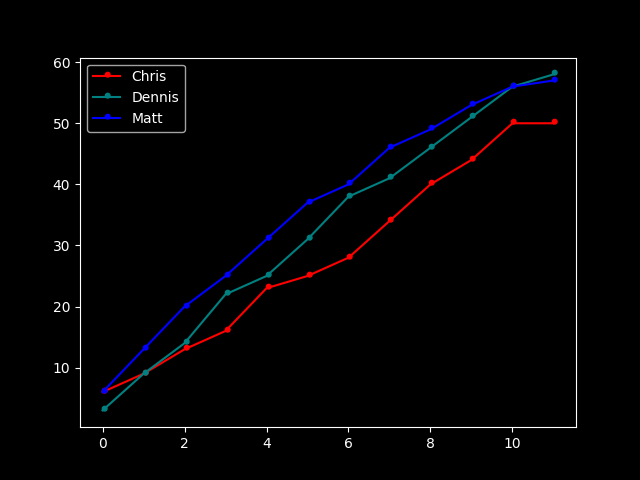
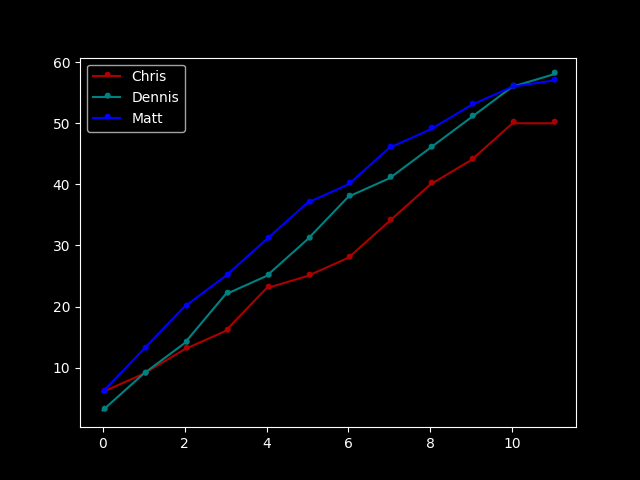
update2021-11-28

diff --git a/nfl-2021/index.html b/nfl-2021/index.html
@@ -400,7 +400,7 @@
   <html>
    <body>
     <p id="updates">
-     updated: 2021-11-28 ...version: s67_x
+     updated: 2021-11-28 ...version: g20_V
     </p>
    </body>
   </html>

diff --git a/nfl-2021/nfl2021.py b/nfl-2021/nfl2021.py
@@ -497,7 +497,7 @@ csFinal = csFinal[[
 ]]
 
 plt.style.use('dark_background')
-pp = csFinal.plot(style={'Chris':'Red','Dennis':'Teal','Matt':'Blue'},linestyle='-',marker='$•$')
+pp = csFinal.plot(style={'Chris':'#AA0000','Dennis':'Teal','Matt':'Blue'},linestyle='-',marker='$•$')
 plt.savefig('imgs/progress.png')
 
 finalOutput = pandas.merge(susChris,susDennis,on='Week',how='left')
